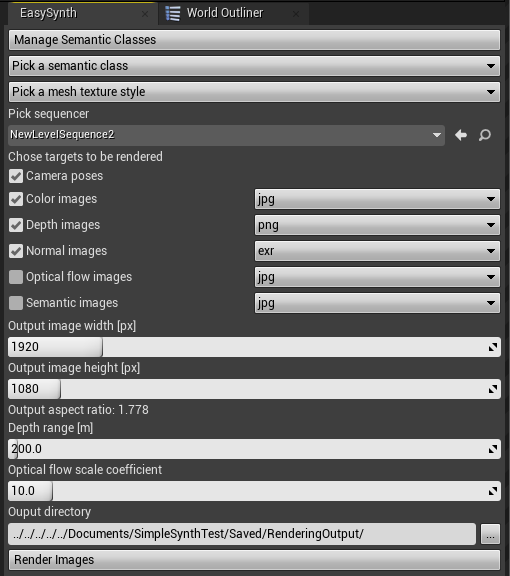
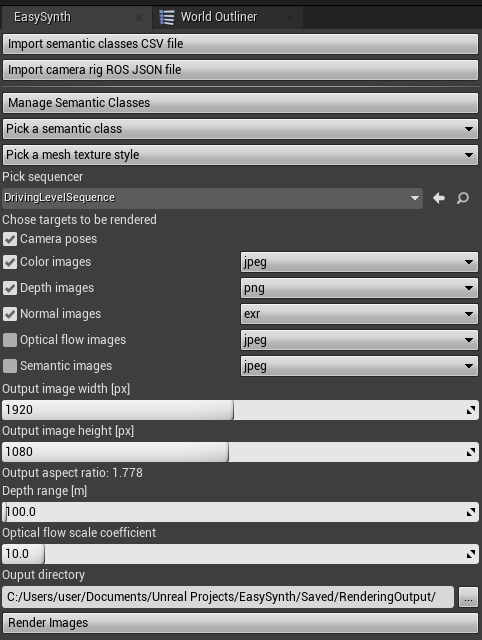
Update readme

diff --git a/README.md b/README.md
@@ -82,6 +82,7 @@ This editor allows you to:
 
 Next, you should assign semantic classes to all of the level actors. To do this:
 - Select one or more actors of the same class in the editor window or by using the World Outliner
+- Supported mesh types are static mesh, skeletal mesh and landscapes
 - Assign them a class by clicking on the `Pick a semantic class` button and picking the class
 
 To toggle between original and semantic color, use the `Pick a mesh texture style` button. Make sure that you never save your project while the semantic view mode is selected.
@@ -99,6 +100,8 @@ Setting up rendering options inside the EasySynth widget:
 
 ![Plugin widget](/ReadmeContent/Widget.png)
 
+- <em>Optionally</em> import semantic classes from a CSV file (or create them manually)
+- <em>Optionally</em> import camera rig from a ROS format JSON file (or create it manually)
 - Pick the created level sequence
 - Choose the desired rendering targets using checkboxes
 - Choose the output image format for each target
@@ -121,7 +124,7 @@ Start the rendering by clicking the `Render Images` button.
 
 EasySynth seamlessly supports rendering using rigs that contain multiple cameras. To create a rig, add an empty actor to the level, and then add any number of individual camera components to the actor, position them as desired relative to the actor position. Then, add the actor to the level sequence and assign it to the camera cut track. When you start rendering, outputs from all of the rig cameras will be created in succession.
 
-Camera rig information can be imported and exported using OpenCV YAML files with a specific structure. Clicking on the button `Import camera rig YAML file` and choosing a valid file will create an actor that represents the described rig inside the level. The camera rig YAML file is also exported during rendering to the selected output directory. The YAML file structure will be described below.
+Camera rig information can be imported and exported using ROS format JSON files with a specific structure. Clicking on the button `Import camera rig ROS JSON file` and choosing a valid file will create an actor that represents the described rig inside the level. The camera rig file is also exported during rendering to the selected output directory. Its structure will be described below.
 
 ### Workflow tips
 
@@ -204,60 +207,38 @@ for i, pose in poses_df.iterrows():
     view_mat = np.linalg.inv(mat4)
 ```
 
-### Camera rig YAML file
+### Camera rig ROS JSON file
 
-Camera rig YAML files contain spacial data that uses the same coordinate system described in the `Camera pose output` section. It contains a set of 4 matrices for each rig camera:
+Camera rig JSON files contain spacial data that uses the same coordinate system described in the `Camera pose output` section. It contains 5 fields for each rig camera:
 
-- Camera matrix
-- Distortion coefficients
-- Translation vector in relation to the rig origin
-- Rotation quaternion in relation to the rig rotation
+- `intrinsics` - Camera matrix
+- `coord_sys` - Type of the coordinate system, `RDF` is required
+- `rotation` - Rotation matrix relative to the rig origin
+- `translation` - Translation vector relative to the rig origin
+- `sensor_size` - Sensor width and height in pixels, used to calculate camera FOV
 
-Following is a YAML file example for a rig with two parallel cameras facing forward. The difference can be found in the sign of the translation vector X-axis.
+Following is a ROS JSON file example for a rig with two parallel cameras facing forward. The difference can be found in the sign of the translation vector X-axis.
 
-``` YAML
-%YAML:1.0
----
-cameraMatrix0: !!opencv-matrix
-   rows: 3
-   cols: 3
-   dt: d
-   data: [ 768.0, 0.0, 960.0, 0.0, 768.0, 540.0, 0.0, 0.0, 1.0 ]
-distortionCoefficients0: !!opencv-matrix
-   rows: 14
-   cols: 1
-   dt: d
-   data: [ 0.0, 0.0, 0.0, 0.0, 0.0, 0.0, 0.0, 0.0, 0.0, 0.0, 0.0, 0.0, 0.0, 0.0 ]
-t_vec0: !!opencv-matrix
-   rows: 3
-   cols: 1
-   dt: d
-   data: [ -0.25, -0.0, 0.0 ]
-q_vec0: !!opencv-matrix
-   rows: 4
-   cols: 1
-   dt: d
-   data: [ 1.0, 0.0, -0.0, 0.0 ]
-cameraMatrix1: !!opencv-matrix
-   rows: 3
-   cols: 3
-   dt: d
-   data: [ 768.0, 0.0, 960.0, 0.0, 768.0, 540.0, 0.0, 0.0, 1.0 ]
-distortionCoefficients1: !!opencv-matrix
-   rows: 14
-   cols: 1
-   dt: d
-   data: [ 0.0, 0.0, 0.0, 0.0, 0.0, 0.0, 0.0, 0.0, 0.0, 0.0, 0.0, 0.0, 0.0, 0.0 ]
-t_vec1: !!opencv-matrix
-   rows: 3
-   cols: 1
-   dt: d
-   data: [ 0.25, -0.0, 0.0 ]
-q_vec1: !!opencv-matrix
-   rows: 4
-   cols: 1
-   dt: d
-   data: [ 1.0, 0.0, -0.0, 0.0 ]
+``` JSON
+{
+  "cameras": {
+    "c0": {
+      "intrinsics": [2828.283203, 0.0, 960.000000, 0.0, 2828.283203, 540.000000, 0.0, 0.0, 1.0],
+      "coord_sys": "RDF",
+      "rotation": [[1.000000, -0.000000, 0.000000], [0.000000, -1.000000, -0.000000], [0.000000, 0.000000, -1.000000]],
+      "translation": [-0.300000, -0.000000, 0.000000],
+      "sensor_size": [1920.000000, 1080.000000]
+    },
+    "c1": {
+      "intrinsics": [2828.283203, 0.0, 960.000000, 0.0, 2828.283203, 540.000000, 0.0, 0.0, 1.0],
+      "coord_sys": "RDF",
+      "rotation": [[1.000000, -0.000000, 0.000000], [0.000000, -1.000000, -0.000000], [0.000000, 0.000000, -1.000000]],
+      "translation": [0.300000, -0.000000, 0.000000],
+      "sensor_size": [1920.000000, 1080.000000]
+    }
+  }
+}
+
 ```
 
 ### Optical flow images
